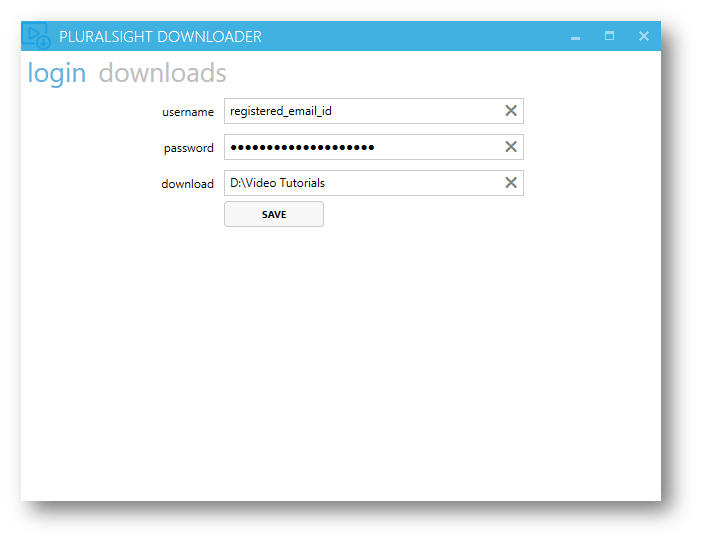
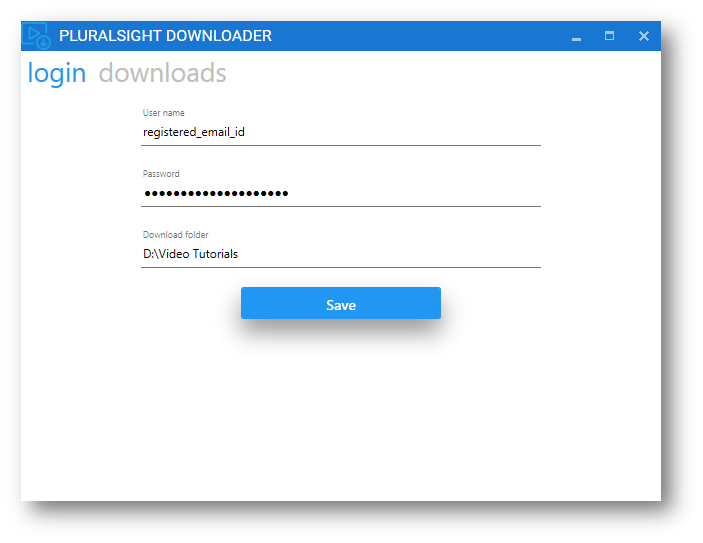
Using MaterialDesignInXAMLToolkit
Using mahapps + material design for UX

diff --git a/PluralsightDownloader/MainWindow.xaml b/PluralsightDownloader/MainWindow.xaml
@@ -4,6 +4,7 @@
                       xmlns:Controls="clr-namespace:MahApps.Metro.Controls;assembly=MahApps.Metro"
                       xmlns:d="http://schemas.microsoft.com/expression/blend/2008"
                       xmlns:local="clr-namespace:PluralsightDownloader"
+                      xmlns:materialDesign="http://materialdesigninxaml.net/winfx/xaml/themes"
                       xmlns:mc="http://schemas.openxmlformats.org/markup-compatibility/2006"
                       Title="Pluralsight Downloader"
                       Width="640"
@@ -14,61 +15,30 @@
     <Grid>
         <TabControl>
             <TabItem Header="login">
-                <Grid>
-                    <Grid.RowDefinitions>
-                        <RowDefinition Height="Auto" />
-                        <RowDefinition Height="Auto" />
-                        <RowDefinition Height="Auto" />
-                        <RowDefinition Height="Auto" />
-                        <RowDefinition Height="*" />
-                    </Grid.RowDefinitions>
-                    <Grid.ColumnDefinitions>
-                        <ColumnDefinition Width="200" />
-                        <ColumnDefinition Width="*" />
-                    </Grid.ColumnDefinitions>
-                    <TextBlock Margin="10"
-                               HorizontalAlignment="Right"
-                               Text="username" />
+                <StackPanel HorizontalAlignment="Center" Orientation="Vertical">
                     <TextBox Name="UserNameTextbox"
-                             Grid.Row="0"
-                             Grid.Column="1"
-                             Width="300"
-                             HorizontalAlignment="Left"
-                             VerticalAlignment="Center"
-                             Controls:TextBoxHelper.ClearTextButton="True"
-                             Controls:TextBoxHelper.Watermark="username" />
-                    <TextBlock Grid.Row="1"
-                               Margin="10"
-                               HorizontalAlignment="Right"
-                               Text="password" />
+                             Width="400"
+                             Margin="10"
+                             materialDesign:HintAssist.Hint="User name"
+                             Style="{StaticResource MaterialDesignFloatingHintTextBox}" />
                     <PasswordBox Name="PasswordBox"
-                                 Grid.Row="1"
-                                 Grid.Column="1"
-                                 Width="300"
-                                 HorizontalAlignment="Left"
-                                 VerticalAlignment="Center"
-                                 Controls:TextBoxHelper.ClearTextButton="True"
-                                 Controls:TextBoxHelper.Watermark="password" />
-                    <TextBlock Grid.Row="2"
-                               Margin="10"
-                               HorizontalAlignment="Right"
-                               Text="download" />
+                                 Width="400"
+                                 Margin="10"
+                                 materialDesign:HintAssist.Hint="Password"
+                                 Style="{StaticResource MaterialDesignFloatingHintPasswordBox}" />
                     <TextBox Name="DownloadTextbox"
-                             Grid.Row="2"
-                             Grid.Column="1"
-                             Width="300"
-                             HorizontalAlignment="Left"
-                             VerticalAlignment="Center"
-                             Controls:TextBoxHelper.ClearTextButton="True"
-                             Controls:TextBoxHelper.Watermark="download folder" />
+                             Width="400"
+                             Margin="10"
+                             materialDesign:HintAssist.Hint="Download folder"
+                             Style="{StaticResource MaterialDesignFloatingHintTextBox}" />
                     <Button Name="SaveConfigButton"
-                            Grid.Row="3"
-                            Grid.Column="1"
-                            Width="100"
-                            HorizontalAlignment="Left"
+                            Width="200"
+                            Margin="10"
+                            materialDesign:ShadowAssist.ShadowDepth="Depth5"
                             Click="SaveConfigButton_OnClick"
-                            Content="Save" />
-                </Grid>
+                            Content="Save"
+                            Style="{DynamicResource MaterialDesignRaisedButton}" />
+                </StackPanel>
             </TabItem>
             <TabItem Header="downloads">
                 <Grid>
@@ -77,82 +47,90 @@
                         <RowDefinition Height="Auto" />
                         <RowDefinition Height="*" />
                     </Grid.RowDefinitions>
-                    <StackPanel Orientation="Horizontal">
+                    <Grid>
+                        <Grid.ColumnDefinitions>
+                            <ColumnDefinition Width="*" />
+                            <ColumnDefinition Width="Auto" />
+                            <ColumnDefinition Width="Auto" />
+                        </Grid.ColumnDefinitions>
                         <TextBox Name="PlaulistUrlTextbox"
-                                 Width="300"
+                                 Grid.Column="0"
                                  Margin="10"
-                                 Controls:TextBoxHelper.ClearTextButton="True"
-                                 Controls:TextBoxHelper.Watermark="playlist uri" />
-                        <Controls:ToggleSwitch Name="ShutdownToggleSwitch"
-                                               Content="shutdown"
-                                               OffLabel="no"
-                                               OnLabel="yes" />
+                                 VerticalAlignment="Center"
+                                 materialDesign:HintAssist.Hint="Playlist uri"
+                                 Style="{StaticResource MaterialDesignFloatingHintTextBox}" />
+                        <ToggleButton Name="ShutdownToggleSwitch"
+                                      Grid.Column="1"
+                                      Margin="10"
+                                      VerticalAlignment="Center"
+                                      Content="shutdown"
+                                      Style="{StaticResource MaterialDesignSwitchToggleButton}"
+                                      ToolTip="shutdown" />
                         <Button Name="DownloadButton"
+                                Grid.Column="2"
                                 Width="100"
                                 Margin="10"
+                                VerticalAlignment="Center"
+                                materialDesign:ShadowAssist.ShadowDepth="Depth5"
                                 Click="DownloadButton_OnClick"
-                                Content="Download" />
-                    </StackPanel>
+                                Content="Download"
+                                Style="{DynamicResource MaterialDesignRaisedButton}" />
+                    </Grid>
                     <TextBlock Name="CourseTitleLabel"
                                Grid.Row="1"
                                HorizontalAlignment="Center"
                                VerticalAlignment="Center"
-                               FontSize="24" />
-                    <TextBlock Name="ElapsedLabel"
-                               Grid.Row="1"
-                               Margin="20,0"
-                               HorizontalAlignment="Left"
-                               VerticalAlignment="Center"
-                               Foreground="#339933" />
-                    <TextBlock Name="ETALabel"
-                               Grid.Row="1"
-                               Margin="20,0"
-                               HorizontalAlignment="Right"
-                               VerticalAlignment="Center"
-                               Foreground="#E51400" />
+                               Style="{StaticResource MaterialDesignHeadlineTextBlock}" />
+                    <materialDesign:Chip Name="ElapsedChip"
+                                         Grid.Row="1"
+                                         Margin="20,0"
+                                         HorizontalAlignment="Left"
+                                         VerticalAlignment="Center"
+                                         IsDeletable="False" />
+                    <materialDesign:Chip Name="ETAChip"
+                                         Grid.Row="1"
+                                         Margin="20,0"
+                                         HorizontalAlignment="Right"
+                                         VerticalAlignment="Center"
+                                         IsDeletable="False" />
                     <ScrollViewer Grid.Row="2">
                         <ItemsControl Name="PlaylistDisplay">
                             <ItemsControl.ItemTemplate>
                                 <DataTemplate>
                                     <Expander IsExpanded="{Binding Key.Downloaded}">
                                         <Expander.Header>
-                                            <Grid>
-                                                <Button HorizontalAlignment="Left"
-                                                        VerticalAlignment="Center"
-                                                        Background="Transparent"
-                                                        BorderBrush="Transparent"
-                                                        BorderThickness="0"
+                                            <StackPanel Orientation="Horizontal">
+                                                <materialDesign:Chip VerticalAlignment="Center"
+                                                                     Content="{Binding Key.WaitTime,
+                                                                                       Converter={StaticResource TimeDisplayConverter}}"
+                                                                     IsDeletable="False" />
+                                                <Button VerticalAlignment="Center"
                                                         Click="CategoryButton_Click"
                                                         Content="{Binding Key.Category}"
-                                                        Foreground="White" />
-                                                <TextBlock Margin="10,0"
-                                                           HorizontalAlignment="Right"
-                                                           Foreground="White"
-                                                           Text="{Binding Key.WaitTime,
-                                                                          Converter={StaticResource TimeDisplayConverter}}" />
-                                            </Grid>
+                                                        Style="{StaticResource MaterialDesignFlatButton}" />
+                                            </StackPanel>
                                         </Expander.Header>
-                                        <ListBox ItemsSource="{Binding Value}">
+                                        <ListBox Margin="20" ItemsSource="{Binding Value}">
                                             <ListBox.ItemTemplate>
                                                 <DataTemplate>
                                                     <Grid>
                                                         <Grid.ColumnDefinitions>
+                                                            <ColumnDefinition Width="Auto" />
                                                             <ColumnDefinition Width="*" />
-                                                            <ColumnDefinition Width="50" />
-                                                            <ColumnDefinition Width="25" />
                                                         </Grid.ColumnDefinitions>
-                                                        <TextBlock HorizontalAlignment="Left"
-                                                                   Foreground="#F09609"
-                                                                   Text="{Binding Name}" />
+                                                        <materialDesign:Chip VerticalAlignment="Center"
+                                                                             Content="{Binding WaitTime,
+                                                                                               Converter={StaticResource TimeDisplayConverter}}"
+                                                                             IsDeletable="False">
+                                                            <materialDesign:Chip.Icon>
+                                                                <materialDesign:PackIcon Kind="{Binding Downloaded, Converter={StaticResource DownloadStatusConverter}}" />
+                                                            </materialDesign:Chip.Icon>
+                                                        </materialDesign:Chip>
                                                         <TextBlock Grid.Column="1"
-                                                                   HorizontalAlignment="Right"
-                                                                   Foreground="#339933"
-                                                                   Text="{Binding WaitTime,
-                                                                                  Converter={StaticResource TimeDisplayConverter}}" />
-                                                        <Border Grid.Column="2"
-                                                                Margin="5"
-                                                                Background="{Binding Downloaded,
-                                                                                     Converter={StaticResource DownloadStatusConverter}}" />
+                                                                   HorizontalAlignment="Left"
+                                                                   VerticalAlignment="Center"
+                                                                   Style="{StaticResource MaterialDesignBody2TextBlock}"
+                                                                   Text="{Binding Name}" />
                                                     </Grid>
                                                 </DataTemplate>
                                             </ListBox.ItemTemplate>
@@ -162,30 +140,6 @@
                             </ItemsControl.ItemTemplate>
                         </ItemsControl>
                     </ScrollViewer>
-                </Grid>
-            </TabItem>
-            <TabItem Header="queue" Visibility="Hidden">
-                <Grid>
-                    <Grid.RowDefinitions>
-                        <RowDefinition Height="Auto" />
-                        <RowDefinition Height="*" />
-                    </Grid.RowDefinitions>
-                    <StackPanel Orientation="Horizontal">
-                        <TextBox Name="DownloadQueueTextbox"
-                                 Width="300"
-                                 Margin="5"
-                                 Controls:TextBoxHelper.ClearTextButton="True"
-                                 Controls:TextBoxHelper.Watermark="URI" />
-                        <Button Name="AddQueueButton"
-                                Width="100"
-                                Margin="5"
-                                Content="add" />
-                        <Button Name="RemoveQueueButton"
-                                Width="100"
-                                Margin="5"
-                                Content="remove" />
-                    </StackPanel>
-                    <ListBox Name="DownloadQueueListbox" Grid.Row="1" />
                 </Grid>
             </TabItem>
         </TabControl>

diff --git a/PluralsightDownloader/App.xaml b/PluralsightDownloader/App.xaml
@@ -11,11 +11,39 @@
                 <ResourceDictionary Source="pack://application:,,,/MahApps.Metro;component/Styles/Controls.xaml" />
                 <ResourceDictionary Source="pack://application:,,,/MahApps.Metro;component/Styles/Fonts.xaml" />
                 <ResourceDictionary Source="pack://application:,,,/MahApps.Metro;component/Styles/Colors.xaml" />
-                <!--  Accent and AppTheme setting  -->
-                <ResourceDictionary Source="pack://application:,,,/MahApps.Metro;component/Styles/Accents/Blue.xaml" />
                 <ResourceDictionary Source="pack://application:,,,/MahApps.Metro;component/Styles/Accents/BaseLight.xaml" />
                 <ResourceDictionary Source="pack://application:,,,/MahApps.Metro;component/Styles/Controls.AnimatedTabControl.xaml" />
+
+                <!--  Material Design  -->
+                <ResourceDictionary Source="pack://application:,,,/MaterialDesignThemes.Wpf;component/Themes/MaterialDesignTheme.Light.xaml" />
+                <ResourceDictionary Source="pack://application:,,,/MaterialDesignThemes.Wpf;component/Themes/MaterialDesignTheme.Defaults.xaml" />
+                <ResourceDictionary Source="pack://application:,,,/MaterialDesignColors;component/Themes/Recommended/Primary/MaterialDesignColor.Blue.xaml" />
+                <ResourceDictionary Source="pack://application:,,,/MaterialDesignColors;component/Themes/Recommended/Accent/MaterialDesignColor.Blue.xaml" />
+
+                <!--  Material Design: MahApps Compatibility  -->
+                <ResourceDictionary Source="pack://application:,,,/MaterialDesignThemes.MahApps;component/Themes/MaterialDesignTheme.MahApps.Fonts.xaml" />
+                <ResourceDictionary Source="pack://application:,,,/MaterialDesignThemes.MahApps;component/Themes/MaterialDesignTheme.MahApps.Flyout.xaml" />
             </ResourceDictionary.MergedDictionaries>
+
+            <!--  MahApps Brushes  -->
+            <SolidColorBrush x:Key="HighlightBrush" Color="{DynamicResource Primary700}" />
+            <SolidColorBrush x:Key="AccentColorBrush" Color="{DynamicResource Primary500}" />
+            <SolidColorBrush x:Key="AccentColorBrush2" Color="{DynamicResource Primary400}" />
+            <SolidColorBrush x:Key="AccentColorBrush3" Color="{DynamicResource Primary300}" />
+            <SolidColorBrush x:Key="AccentColorBrush4" Color="{DynamicResource Primary200}" />
+            <SolidColorBrush x:Key="WindowTitleColorBrush" Color="{DynamicResource Primary700}" />
+            <SolidColorBrush x:Key="AccentSelectedColorBrush" Color="{DynamicResource Primary500Foreground}" />
+            <LinearGradientBrush x:Key="ProgressBrush" StartPoint="1.002,0.5" EndPoint="0.001,0.5">
+                <GradientStop Offset="0" Color="{DynamicResource Primary700}" />
+                <GradientStop Offset="1" Color="{DynamicResource Primary300}" />
+            </LinearGradientBrush>
+            <SolidColorBrush x:Key="CheckmarkFill" Color="{DynamicResource Primary500}" />
+            <SolidColorBrush x:Key="RightArrowFill" Color="{DynamicResource Primary500}" />
+            <SolidColorBrush x:Key="IdealForegroundColorBrush" Color="{DynamicResource Primary500Foreground}" />
+            <SolidColorBrush x:Key="IdealForegroundDisabledBrush"
+                             Opacity="0.4"
+                             Color="{DynamicResource Primary500}" />
+
             <helpers:DownloadStatusConverter x:Key="DownloadStatusConverter" />
             <helpers:TimeDisplayConverter x:Key="TimeDisplayConverter" />
         </ResourceDictionary>

diff --git a/PluralsightDownloader/MainWindow.xaml.cs b/PluralsightDownloader/MainWindow.xaml.cs
@@ -47,10 +47,10 @@
                 {
                     this.PlaylistDisplay.ItemsSource = this.GroupToDictionary(vdos);
 
-                    this.ElapsedLabel.Text =
+                    this.ElapsedChip.Content =
                         TimeDisplayConverter.TimeToReadbleFormat(vdos.Where(v => v.Downloaded).Sum(v => v.WaitTime));
 
-                    this.ETALabel.Text =
+                    this.ETAChip.Content =
                         TimeDisplayConverter.TimeToReadbleFormat(vdos.Where(v => !v.Downloaded).Sum(v => v.WaitTime));
                 };
 
@@ -293,7 +293,7 @@
                 psi.CreateNoWindow = true;
                 psi.UseShellExecute = false;
             }
-            
+
             var process = Process.Start(psi);
             process.WaitForExit();
 

diff --git a/PluralsightDownloader/Helpers/DownloadStatusConverter.cs b/PluralsightDownloader/Helpers/DownloadStatusConverter.cs
@@ -7,14 +7,10 @@
 
     public class DownloadStatusConverter : IValueConverter
     {
-        private readonly SolidColorBrush green = new SolidColorBrush(Color.FromArgb(255, 140, 191, 38));
-
-        private readonly SolidColorBrush red = new SolidColorBrush(Color.FromArgb(255, 229, 20, 0));
-
         public object Convert(object value, Type targetType, object parameter, CultureInfo culture)
         {
             var downloaded = (bool)value;
-            return downloaded ? this.green : this.red;
+            return downloaded ? "CheckboxMarkedCircleOutline" : "CheckboxBlankCircleOutline";
         }
 
         public object ConvertBack(object value, Type targetType, object parameter, CultureInfo culture)
